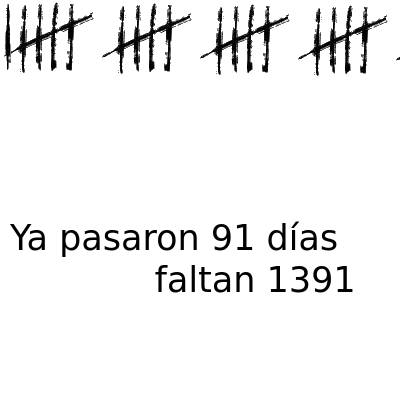
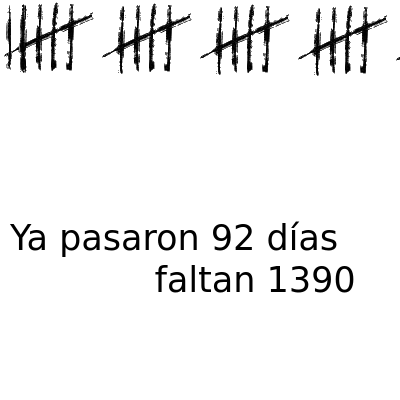
deploy: 28882f26f23b9f53dac6c4991168e610486d0e44

Changed region(s): [[0.0, 0.0, 0.09, 0.18], [0.84, 0.66, 0.9, 0.75], [0.57, 0.54, 0.63, 0.63]]

diff --git a/index.html b/index.html
@@ -3,19 +3,19 @@
   <head>
     <meta charset='utf-8'>
     <meta http-equiv='X-UA-Compatible' content='IE=edge'>
-    <title>Ya pasaron 91 días y faltan 1391</title>
-    <meta name="description" content="Ya pasaron 91 días y faltan 1391">
-    <meta itemprop="name" content="Ya pasaron 91 días y faltan 1391">
-    <meta itemprop="description" content="Ya pasaron 91 días y faltan 1391">
+    <title>Ya pasaron 92 días y faltan 1390</title>
+    <meta name="description" content="Ya pasaron 92 días y faltan 1390">
+    <meta itemprop="name" content="Ya pasaron 92 días y faltan 1390">
+    <meta itemprop="description" content="Ya pasaron 92 días y faltan 1390">
     <meta name="twitter:card" content="summary">
-    <meta name="twitter:title" content="Ya pasaron 91 días y faltan 1391">
-    <meta name="twitter:description" content="Ya pasaron 91 días y faltan 1391">
+    <meta name="twitter:title" content="Ya pasaron 92 días y faltan 1390">
+    <meta name="twitter:description" content="Ya pasaron 92 días y faltan 1390">
     <meta name="twitter:creator" content="@FloriusWasTaken">
     <meta name="twitter:image" content="https://pasaron.meme.ar/capture.png">
-    <meta property="og:title" content="Ya pasaron 91 días y faltan 1391">
-    <meta property="og:description" content="Ya pasaron 91 días y faltan 1391">
+    <meta property="og:title" content="Ya pasaron 92 días y faltan 1390">
+    <meta property="og:description" content="Ya pasaron 92 días y faltan 1390">
     <meta property="og:url" content="https://pasaron.meme.ar">
-    <meta property="og:site_name" content="Ya pasaron 91 días y faltan 1391">
+    <meta property="og:site_name" content="Ya pasaron 92 días y faltan 1390">
     <meta property="og:type" content="website">
     <meta property="og:image" content="https://pasaron.meme.ar/capture.png">
     <meta name="theme-color" content="#dc143c">
@@ -69,18 +69,18 @@
         padding: 0;
       }
     </style>
-    <title>Ya pasaron 91 días y faltan 1391</title>
+    <title>Ya pasaron 92 días y faltan 1390</title>
   </head>
   <body>
     <div id="main">
       <img src="img/5.png"/><img src="img/5.png"/><img src="img/5.png"/><img src="img/5.png"/><img src="img/5.png"/><img src="img/5.png"/><img src="img/5.png"/><img src="img/5.png"/><img src="img/5.png"/><img src="img/5.png"/><img src="img/5.png"/><img src="img/5.png"/><img src="img/5.png"/><img src="img/5.png"/><img src="img/5.png"/><img src="img/5.png"/><img src="img/5.png"/><img src="img/5.png"/>
       
-        <img src="img/1.png"/>
+        <img src="img/2.png"/>
       
     </div>
     <footer id="footer">
       <marquee id="marquee" class="is-vertical-align">
-        Ya pasaron 91 días y faltan 1391
+        Ya pasaron 92 días y faltan 1390
       </marquee>
       <ul>
         <li>
